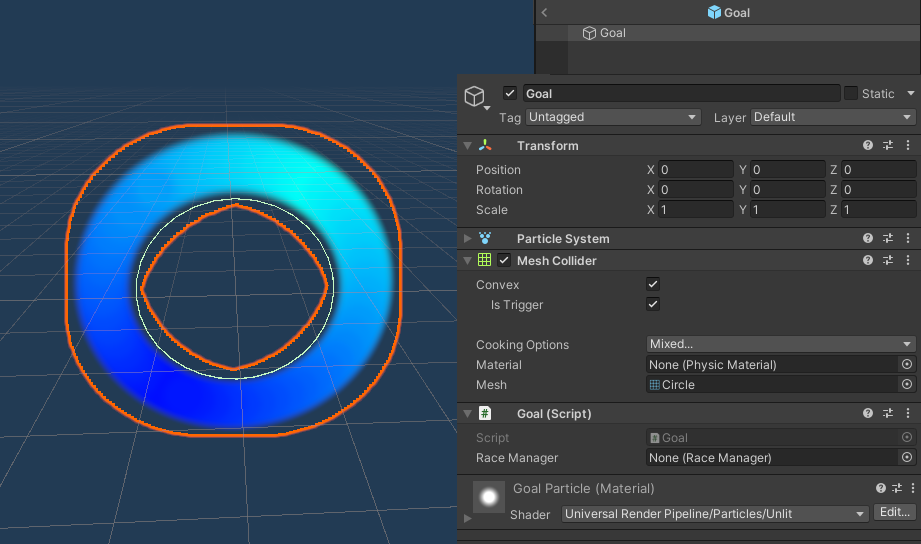
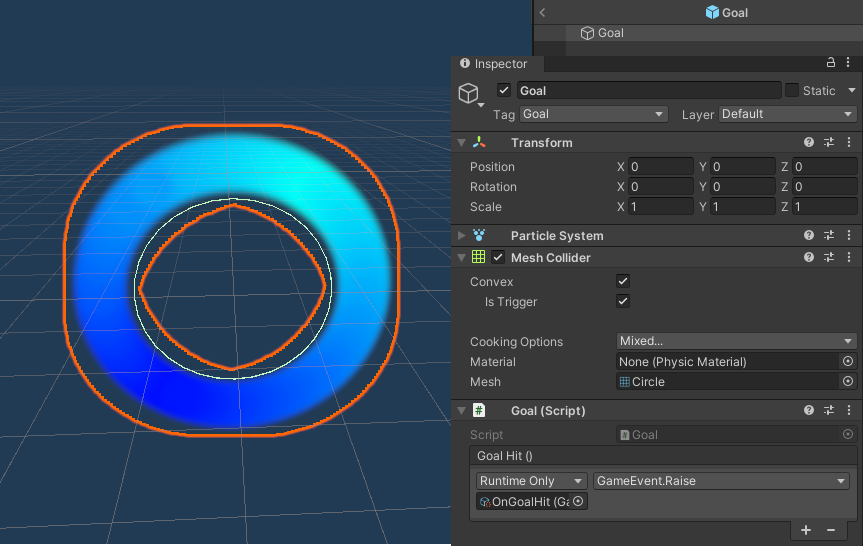
#22 Documentation - Goal updated

diff --git a/Documentation/Index.md b/Documentation/Index.md
@@ -363,21 +363,16 @@ The tracking of the goals passed and the points gained is done by the Race Manag
 A goal is composed by a particle system which gives the ring visual, and a trigger collider with circle shape.
 
 Also it has a script which implements the response to the trigger. If the object thats colliding with the trigger
-has the tag *GoalHitter* then it calls the callback function of the associated RaceManager.
+has the tag *GoalHitter* then it calls the UnityEvent *GoalHit*, which raises the GameEvent *OnGoalHit*
 ```csharp
 private void OnTriggerEnter(Collider other)
     {
-        if (other.tag == "GoalHitter")
-            raceManager?.OnGoalHit();
+        if (other.CompareTag("GoalHitter"))
+        {
+            GameLogger.Debug(this.name + " raised GoalHit");
+            GoalHit.Invoke();
+        }
     }
-```
-
-The RaceManager dependency is set at startup with *Awake*
-```csharp
-private void Awake()
-{
-    raceManager = GameObject.Find("RaceManager").GetComponent<RaceManager>();
-}
 ```
 
 ### Race Manager <a name="RaceManager"></a> <a href="#Index" style="font-size:13px">(index)</a>
